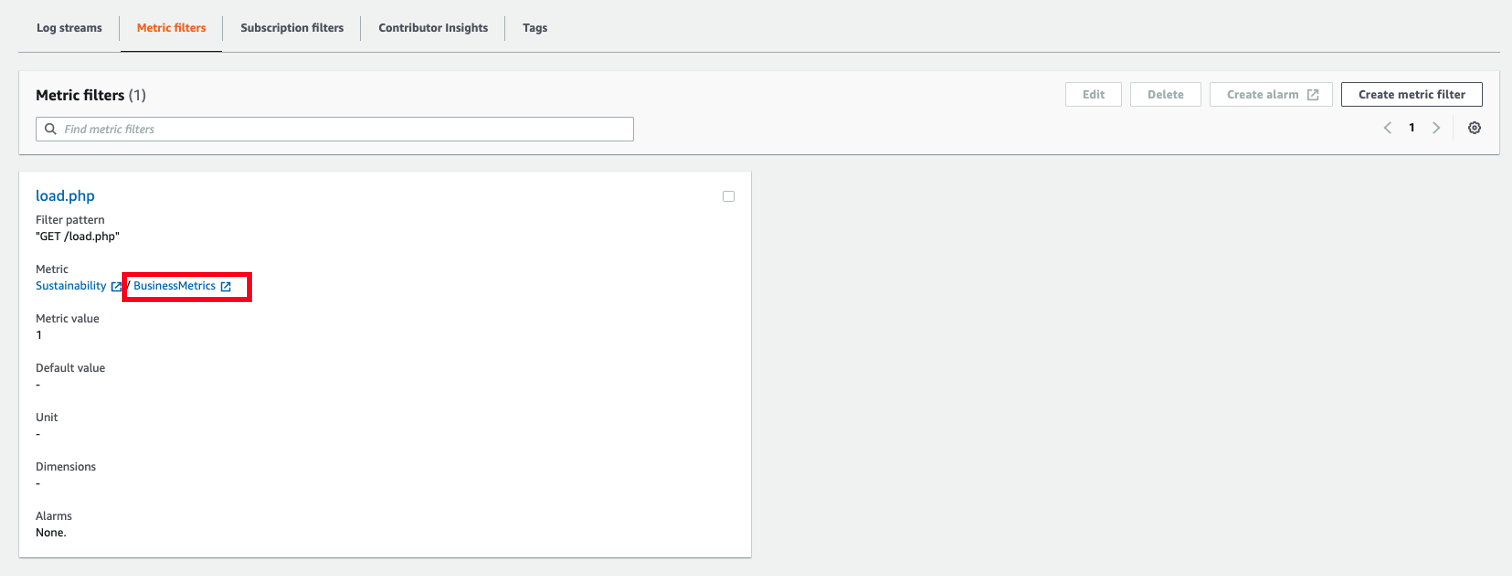
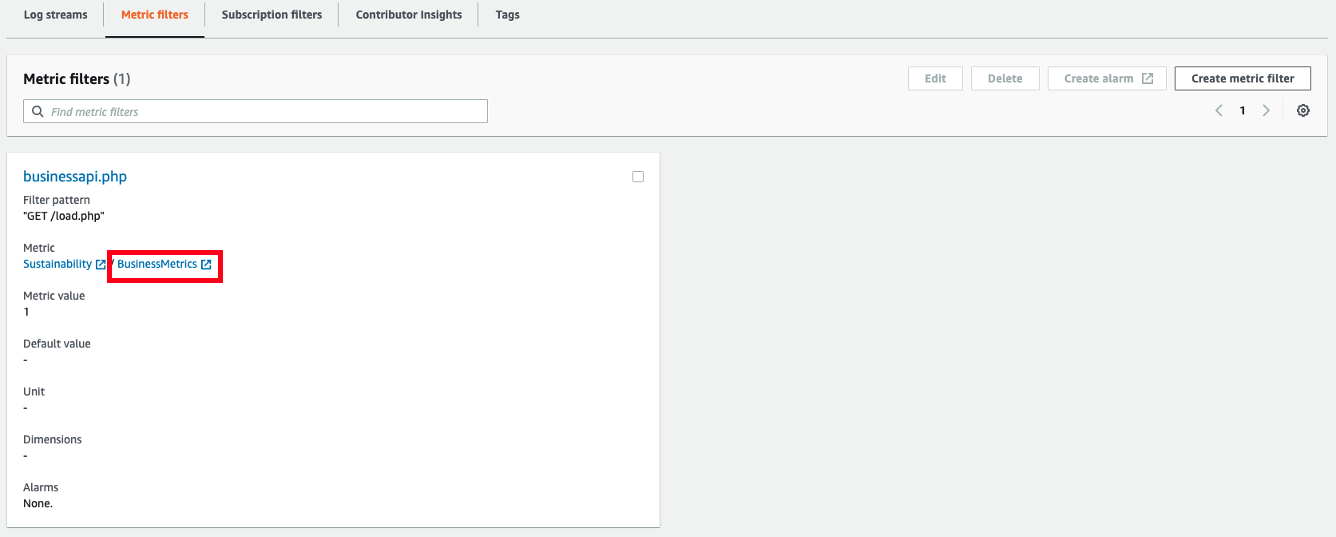
changed from load.php to business.php with  screenshots

diff --git a/content/Sustainability/200_Labs/200_optimize_ec2_using_cloudwatch_compute_optimizer/5_review_sustainability_kpi_optimization.md b/content/Sustainability/200_Labs/200_optimize_ec2_using_cloudwatch_compute_optimizer/5_review_sustainability_kpi_optimization.md
@@ -18,7 +18,7 @@ With optimization completed in the previous lab, let’s see if you maximized ut
 2. Optimal compute resources to reduces idle resources and to meet performance requirements to deliver your business outcomes
 
 {{% notice note %}}
-**Note** - As mentioned earlier, AWS Graviton3 processors helps you reduce your carbon footprint as it uses up to 60 % less energy for the same performance comparable to EC2 instances. 
+**Note** - As mentioned earlier, AWS Graviton3 processors help you reduce your carbon footprint as it uses up to 60 % less energy for the same performance comparable to EC2 instances. 
 {{% /notice %}}
 
 ### 5.2. Review Sustainability KPI Optimization

diff --git a/content/Sustainability/200_Labs/200_optimize_ec2_using_cloudwatch_compute_optimizer/3_baseline_sustainability_kpi.md b/content/Sustainability/200_Labs/200_optimize_ec2_using_cloudwatch_compute_optimizer/3_baseline_sustainability_kpi.md
@@ -52,7 +52,7 @@ Scroll down to the bottom to click **Next**.
 
     1. Create a filter name as **load.php**. 
     ```
-    load.php
+    businessapi.php
     ```
     2. **Click radio slider** as you will select the existing metric namespace.  
     3. Use **Sustainability** as Metric namespace.
